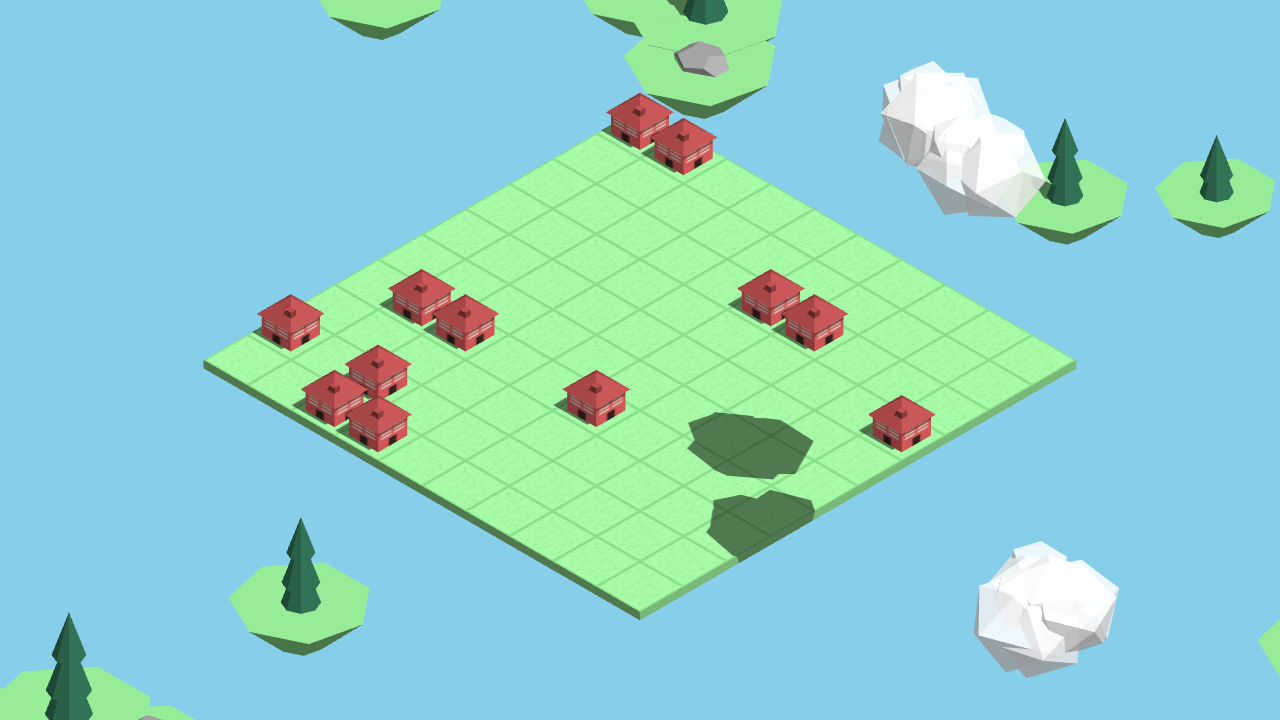
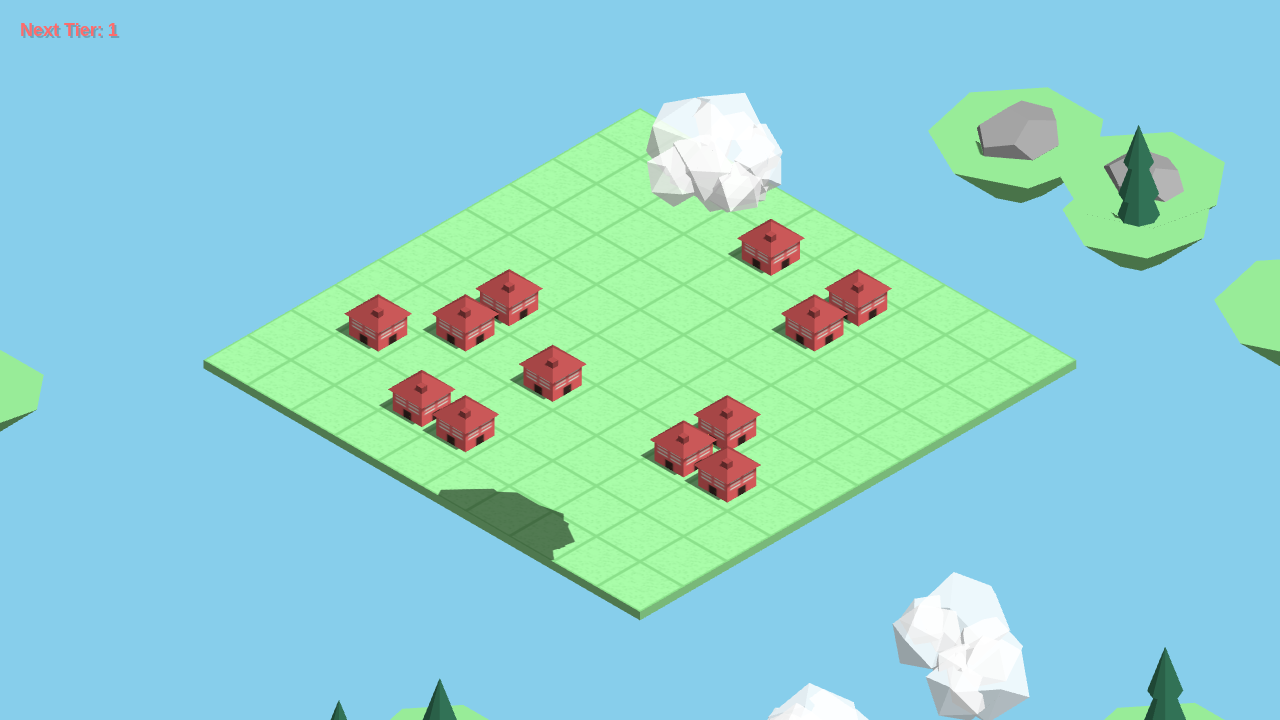
feat: Add Next Tier UI tracking

diff --git a/main.js b/main.js
@@ -1513,6 +1513,18 @@ function resetGame() {
 
 
 
+// UI Update Logic
+let currentDisplayTier = null;
+function updateUX() {
+    if (gameState.nextTier !== currentDisplayTier) {
+        currentDisplayTier = gameState.nextTier;
+        const nextTierDiv = document.getElementById('next-tier');
+        if (nextTierDiv) {
+            nextTierDiv.innerHTML = `Next Tier: ${currentDisplayTier}`;
+        }
+    }
+}
+
 // Render Loop
 const clock = new THREE.Clock();
 
@@ -1527,6 +1539,7 @@ function animate() {
     cloudSystem.update(dt);
 
     // Update UI
+    updateUX();
 
     renderer.render(scene, camera);
 }

diff --git a/index.html b/index.html
@@ -37,6 +37,7 @@
 
 <body>
     <div id="ui">
+        <div id="next-tier" aria-live="polite" aria-atomic="true"></div>
     </div>
 
     <script src="https://cdnjs.cloudflare.com/ajax/libs/three.js/r128/three.min.js"></script>

diff --git a/.Jules/nova_paths.md b/.Jules/nova_paths.md
@@ -1,17 +1,17 @@
-# Phase 2: Architectural Approaches
+- **Standard Approach:** React or similar framework for state management of UI.
+- **Minimalist Approach (Chosen):** Vanilla JS injection directly into existing `#ui` div, using a simple state-tracking variable (`currentDisplayTier`) in `main.js` to avoid redundant DOM updates in the animation loop.
+- **Lateral Approach:** Canvas-rendered text UI overlay in WebGL instead of DOM updates.
 
-## Problem 1: Phantom Buildings
-*Absorbed buildings remain logically in the grid during their 0.5s slide animation.*
+Chose the **Minimalist Approach** because Pop City has no build step and relies entirely on centralized vanilla JavaScript (`main.js`) and `index.html`. This avoids adding large external dependencies and aligns perfectly with the "Simplicity First" and "Surgical Changes" rules in NOVA_AGENT.md.
 
-* **Path 1 (Standard):** Manually clear `city.grid[x][z]` and decrement `buildingCount` within the merge loop. Call `scene.remove()` upon animation completion. (Pros: Clear intent. Cons: Duplicates `city.remove` logic.)
-* **Path 2 (Minimalist - Selected):** Detach the mesh (`city.meshGrid[x][z] = null`) and immediately call `city.remove(x, z)`. This clears logical data synchronously but skips the default shrink animation, allowing the GSAP slide to play before `scene.remove()`. (Pros: Zero logic duplication, perfectly surgical.)
-* **Path 3 (Lateral):** Add `isMerging = true` to cell data. Filter out merging cells in all raycasting and game tick loops. (Pros: Preserves data until visually gone. Cons: Spreads state-checking logic across 4 different functions.)
-
-## Problem 2: Obstacle Removal
-*Adjacent rocks (tier -2) are not cleared when a match-3 occurs.*
-
-* **Path 1 (Standard - Selected):** Iterate through the final `cluster` array before animating. Check 4 orthogonal neighbors for `tier === -2`. Collect unique obstacle coordinates in a Set and call `city.remove()` on them. (Pros: Highly localized, easy to reason about.)
-* **Path 2 (Minimalist):** Inject the obstacle check directly into the existing BFS `while` loop. If a neighbor is `tier === -2`, destroy it instantly. (Pros: Single loop pass. Cons: Might over-destroy if the cluster size ends up being < 3, requiring rollback logic.)
-* **Path 3 (Lateral):** Modify `updateRoads()` to act as a generic "grid cleanup" sweep that runs after every merge, sweeping for unattached obstacles. (Pros: Consolidates cleanup. Cons: Doesn't make logical sense for rocks, changes mechanics entirely.)
-
-**Decision:** I am proceeding with Path 2 for Phantom Buildings and Path 1 for Obstacle Removal to maintain surgical precision and strict adherence to the zero-build-step, vanilla JS constraints.
+### PR Manifest
+- PR Title: feat: Add Next Tier UI tracking
+- The Problem Solved: The Next Tier UI indicator was missing from the screen despite being tracked in backend logic, making gameplay unpredictable. The Next Tier UI is now displayed in the top left, fulfilling the visual requirement of `GOAL.png`.
+- Visuals: [Markdown links to screenshots would go here after frontend verification]
+- Implementation Journey:
+  - Added `<div id="next-tier" aria-live="polite" aria-atomic="true"></div>` to `#ui` in `index.html`.
+  - Created `updateUX()` in `main.js` to update DOM conditionally based on `gameState.nextTier`.
+  - Hooked `updateUX()` into the `animate()` loop.
+- Tradeoffs & Assumptions: Assumed the text formatting string "Next Tier: X" shown in `GOAL.png` applies accurately, and chose a DOM approach instead of a Canvas WebGL approach for simplicity and screen-reader accessibility.
+- Testing Instructions: Open `index.html` in a browser. Look for "Next Tier: 1" (or 2) in the top left. Clicking on valid grid tiles will advance the tier and the UI will immediately update.
+- Action Item: `git checkout -b feature/next-tier-ui && git commit -m "feat: Add Next Tier UI tracking" && gh pr create --title "feat: Add Next Tier UI tracking" --body-file .Jules/nova_paths.md`
